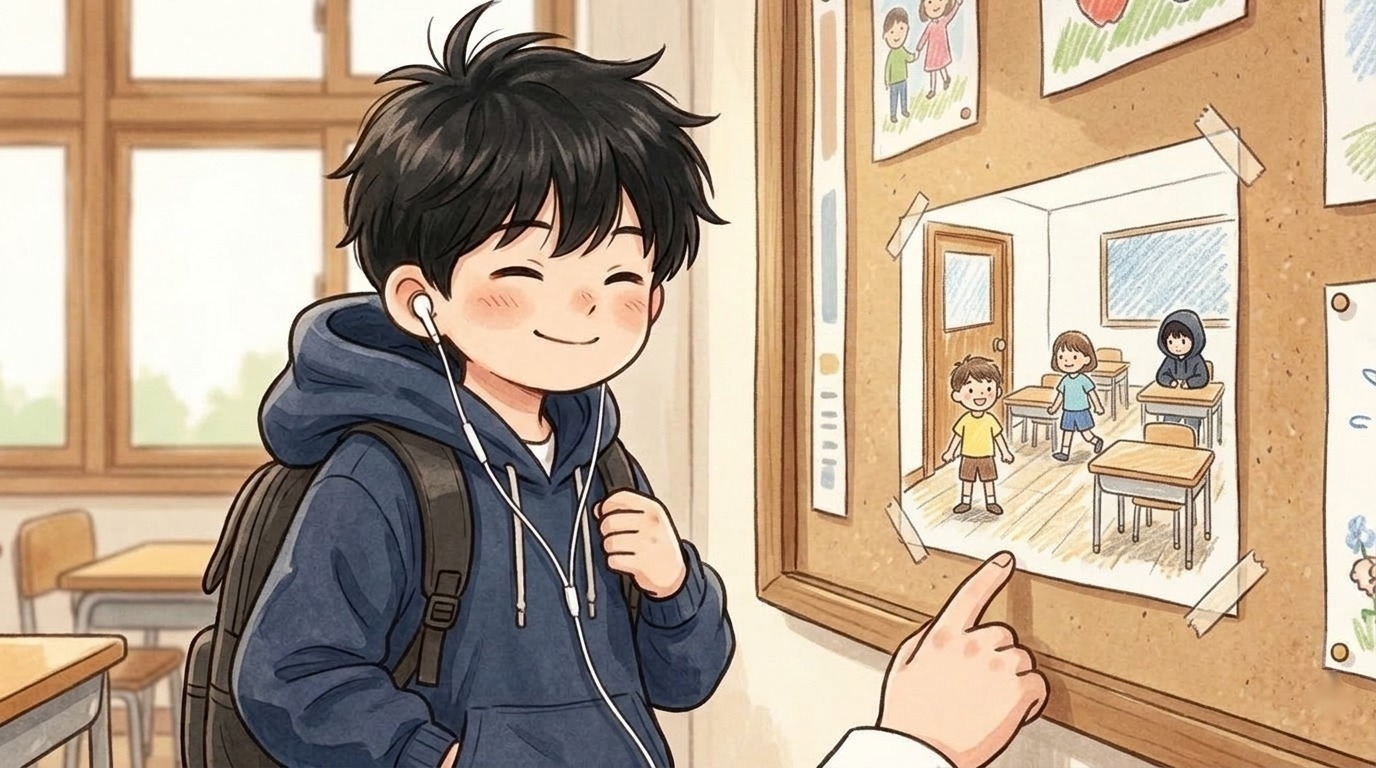
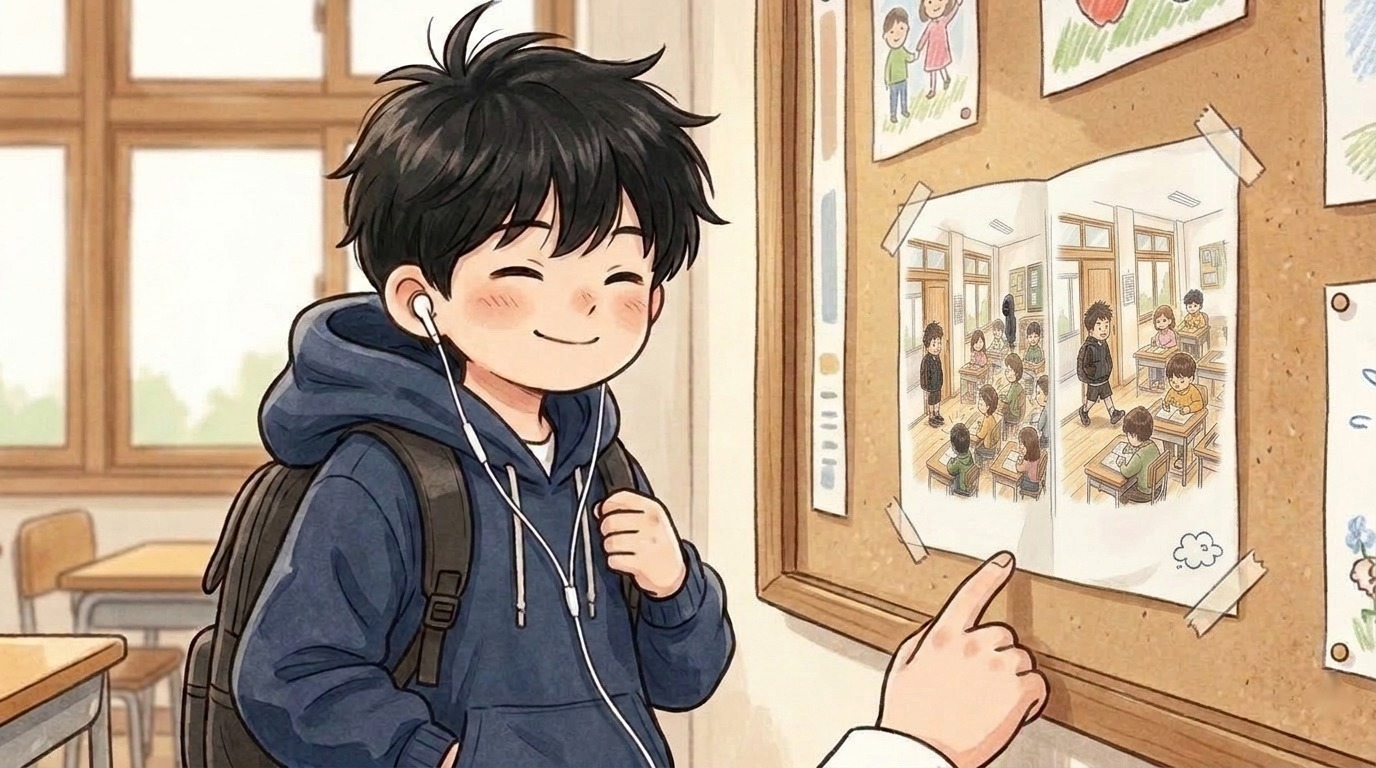
하늘 16일차 마지막 그림(haneul_15s): 게시판 그림을 앞 그림(15y)과 같은 두 칸 그림으로, 귀퉁이 작은 구름도 같은 오른쪽 아래 자리에(API)

Changed region(s): [[0.625, 0.1562, 0.9062, 0.7812], [0.7812, 0.1875, 0.8438, 0.2188]]

diff --git a/index.html b/index.html
@@ -119,14 +119,14 @@ body,button{word-break:keep-all;overflow-wrap:break-word}
 <div id="fader"></div>
 <script>
 // same address, newest version: if the page this phone has kept is older than the one online, fetch the new one and reopen
-const BUILD='1108221038';
+const BUILD='1108221720';
 try{fetch(location.pathname,{cache:'no-store'}).then(r=>r.text()).then(t=>{const m=t.match(/const BUILD='(\d+)'/);if(m&&m[1]!==BUILD&&sessionStorage.getItem('upd')!==m[1]){sessionStorage.setItem('upd',m[1]);fetch(location.pathname,{cache:'reload'}).then(()=>location.reload())}}).catch(()=>{})}catch(e){}
 </script>
-<script src="i18n.js?v=1108221038"></script>
-<script src="i18n_prologue_v2.js?v=1108221038"></script>
-<script src="day2/i18n_engine.js?v=1108221038"></script>
-<script src="day2/data.js?v=1108221038"></script>
-<script src="day3/data.js?v=1108221038"></script>
+<script src="i18n.js?v=1108221720"></script>
+<script src="i18n_prologue_v2.js?v=1108221720"></script>
+<script src="day2/i18n_engine.js?v=1108221720"></script>
+<script src="day2/data.js?v=1108221720"></script>
+<script src="day3/data.js?v=1108221720"></script>
 <script>
 // ---------- data ----------
 const MW=1672,MH=941,KID=180;
@@ -569,36 +569,36 @@ function pickHero(){const m=document.getElementById('modal'),c=document.getEleme
  c.innerHTML=`<h2>${tr('전학생 반장되기')}</h2><p>${tr('한국말이 아직 서툰 전학생,<br>반장 선거에 나가다.')}</p><p style="margin-top:14px">${tr('누구로 할까요?')}</p>${(()=>{const s=loadSave();return s&&s.day>=2&&s.mode===UI+'-'+LANG?`<p><button class="big" id="cont">${tr('{n}일차부터 이어 하기').replace('{n}',s.day)}</button></p>`:''})()}<div class="pick heroes"><button data-h="hero_f"><img src="faces/hero_f_smile.jpg" alt="여자 주인공">${heroName(1)}</button><button data-h="hero_m"><img src="faces/hero_m_smile.jpg" alt="남자 주인공">${heroName(0)}</button></div>`;
  m.classList.add('on');{const cb=document.getElementById('cont');if(cb)cb.onclick=()=>{const s=loadSave();HERO=s.hero;Object.assign(HEART,s.heart||{});(s.found||[]).forEach(k=>FOUND.add(k));HEART_D1={...HEART};chime();(typeof contGame==='function'?contGame(s):startDay(Math.min(s.day,Object.keys(window.D3||{}).length?3:2)))}}c.querySelectorAll('.pick button').forEach(b=>b.onclick=()=>{HERO=b.dataset.h;m.classList.remove('on');chime();bgm('day');load('home_am');say([['nar','','이사 온 다음 날 아침. 아직 풀지 못한 상자들이 쌓여 있다.'],['think','sad','(오늘부터 새 학교야. 여기 말도 아직 서툰데…….)'],['think','smile','({m}한테 인사하고 학교 가야지.)']],morning)})}
 </script>
-<script src="day2/engine.js?v=1108221038"></script>
-<script src="day2/ep_minho.js?v=1108221038"></script>
-<script src="day2/meet.js?v=1108221038"></script>
-<script src="day2/ep_sua.js?v=1108221038"></script>
-<script src="day2/ep_hangyeol.js?v=1108221038"></script>
-<script src="day2/ep_siwoo.js?v=1108221038"></script>
-<script src="day2/ep_haram.js?v=1108221038"></script>
-<script src="day2/ep_jiho.js?v=1108221038"></script>
-<script src="day2/ep_hyeeun.js?v=1108221038"></script>
-<script src="day2/ep_haneul.js?v=1108221038"></script>
-<script src="day2/ep_junho.js?v=1108221038"></script>
-<script src="day2/ep_yuna.js?v=1108221038"></script>
-<script src="day2/ep_yena.js?v=1108221038"></script>
-<script src="day2/ep_haeun.js?v=1108221038"></script>
-<script src="day2/ep_youngmin.js?v=1108221038"></script>
-<script src="day2/ep_seah.js?v=1108221038"></script>
-<script src="day2/ep_jihoon.js?v=1108221038"></script>
-<script src="words_ja_ru.js?v=1108221038"></script>
-<script src="day2/mybag.js?v=1108221038"></script>
-<script src="day2/wordpics.js?v=1108221038"></script>
-<script src="day2/spots.js?v=1108221038"></script>
-<script src="day2/textfit.js?v=1108221038"></script>
-<script src="day2/tester.js?v=1108221038"></script>
-<script src="day2/ux.js?v=1108221038"></script>
-<script src="day2/tapword.js?v=1108221038"></script>
-<script src="day2/review.js?v=1108221038"></script>
-<script src="day2/plane.js?v=1108221038"></script>
-<script src="day2/bubble.js?v=1108221038"></script>
-<script src="day2/ep_ending.js?v=1108221038"></script>
-<script src="day2/ending.js?v=1108221038"></script>
+<script src="day2/engine.js?v=1108221720"></script>
+<script src="day2/ep_minho.js?v=1108221720"></script>
+<script src="day2/meet.js?v=1108221720"></script>
+<script src="day2/ep_sua.js?v=1108221720"></script>
+<script src="day2/ep_hangyeol.js?v=1108221720"></script>
+<script src="day2/ep_siwoo.js?v=1108221720"></script>
+<script src="day2/ep_haram.js?v=1108221720"></script>
+<script src="day2/ep_jiho.js?v=1108221720"></script>
+<script src="day2/ep_hyeeun.js?v=1108221720"></script>
+<script src="day2/ep_haneul.js?v=1108221720"></script>
+<script src="day2/ep_junho.js?v=1108221720"></script>
+<script src="day2/ep_yuna.js?v=1108221720"></script>
+<script src="day2/ep_yena.js?v=1108221720"></script>
+<script src="day2/ep_haeun.js?v=1108221720"></script>
+<script src="day2/ep_youngmin.js?v=1108221720"></script>
+<script src="day2/ep_seah.js?v=1108221720"></script>
+<script src="day2/ep_jihoon.js?v=1108221720"></script>
+<script src="words_ja_ru.js?v=1108221720"></script>
+<script src="day2/mybag.js?v=1108221720"></script>
+<script src="day2/wordpics.js?v=1108221720"></script>
+<script src="day2/spots.js?v=1108221720"></script>
+<script src="day2/textfit.js?v=1108221720"></script>
+<script src="day2/tester.js?v=1108221720"></script>
+<script src="day2/ux.js?v=1108221720"></script>
+<script src="day2/tapword.js?v=1108221720"></script>
+<script src="day2/review.js?v=1108221720"></script>
+<script src="day2/plane.js?v=1108221720"></script>
+<script src="day2/bubble.js?v=1108221720"></script>
+<script src="day2/ep_ending.js?v=1108221720"></script>
+<script src="day2/ending.js?v=1108221720"></script>
 <script>
 // the goal shows big for a few seconds, then folds into a small pill (tap it to open it again)
 {const g=document.getElementById('goal');let t=null;const big=()=>{g.classList.remove('mini');clearTimeout(t);t=setTimeout(()=>g.classList.add('mini'),4000)};
